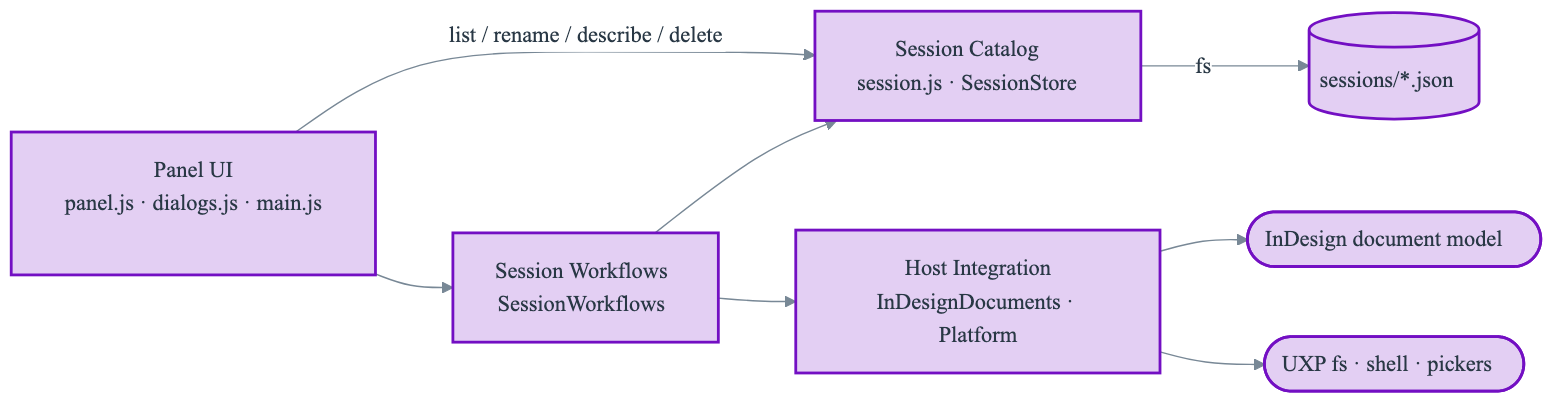
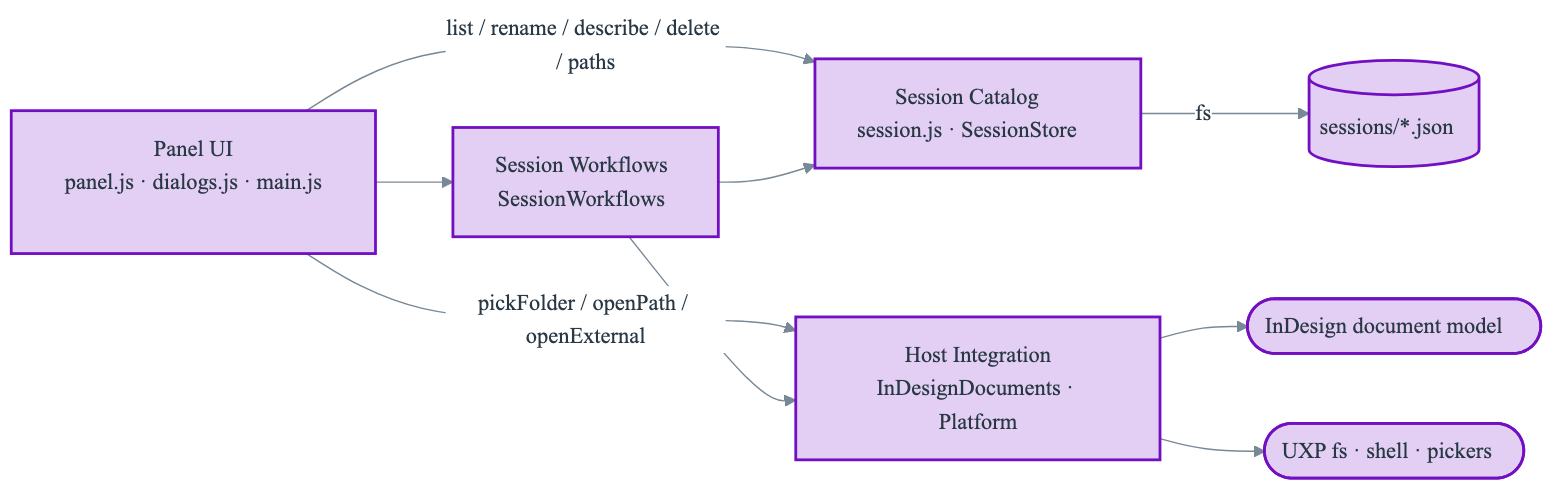
docs: resolve ADR-001 review findings on UI platform calls and fs contract

diff --git a/docs/adrs/ADR-001-indesign-uxp-sessions-plugin/ADR-001-indesign-uxp-sessions-plugin-0.0.1.md b/docs/adrs/ADR-001-indesign-uxp-sessions-plugin/ADR-001-indesign-uxp-sessions-plugin-0.0.1.md
@@ -74,28 +74,29 @@ One file per session, named `<id>.json`, written with `JSON.stringify` (2-space 
 }
 ```
 
-- `id` is immutable and derived from the creation time plus a short random suffix; it is the filename. Renaming a session changes `name` only, so no filename sanitization or file renames are needed and rename cannot collide.
+- `id` is immutable and derived from the UTC creation time (`YYYYMMDD-HHMMSS`) plus a four-character random suffix; it is the filename. Renaming a session changes `name` only, so no filename sanitization or file renames are needed and rename cannot collide.
 - `name` defaults to the local creation date and time and is user-editable. `description` is optional and shown as the row tooltip.
 - `files` are native absolute paths in the order InDesign lists the documents.
 - The list is sorted newest-first by `createdAt`, independent of `name`.
 - Reading validates the shape (`schemaVersion` known, `id`/`name`/`createdAt` strings, `files` an array of strings). Invalid or unreadable files are excluded from the list and reported once in the panel's message area; they are never modified or deleted automatically.
-- Writes go to `<id>.json.tmp` and are then renamed over `<id>.json`, so an interrupted write cannot leave a truncated session.
+- Writes go to `<id>.json.tmp` and are then renamed over `<id>.json`, so an interrupted write cannot leave a truncated session. Listing reads only `*.json`, so a leftover `.tmp` is ignored, and the next write of the same id overwrites it.
+- `SessionStore` depends on this subset of the UXP `fs` module, injected so tests can supply a Node-backed fake with the same subset: `mkdir(path, { recursive: true })`, `readdir(path)`, `readFile(path, { encoding: "utf-8" })`, `writeFile(path, data, { encoding: "utf-8" })`, `rename(from, to)` (replacing an existing target), `unlink(path)`. No other `fs` call is used by the catalog.
 
 ### 4. Components
 
 | Component | Responsibility | Public contract | Implementation artifacts |
 | --- | --- | --- | --- |
-| Session Catalog | Own the session record and its persistence: create, validate, serialize, list, read, update, delete. | `SessionStore` with `list()`, `get(id)`, `create({ name, description, files })`, `update(id, changes)`, `remove(id)`; `Session` helpers `createSession`, `parseSession`, `sortNewestFirst`. | `src/sessions/session.js` (pure), `src/sessions/SessionStore.js` (uses an injected `fs`-compatible module and directory path), `src/sessions/storageLocation.js` |
+| Session Catalog | Own the session record and its persistence: create, validate, serialize, list, read, update, delete. | `SessionStore` with `directory` (absolute sessions folder), `filePathFor(id)`, `list()` → `{ sessions, invalidFiles }`, `get(id)`, `create({ name, description, files })`, `update(id, changes)`, `remove(id)`; `Session` helpers `createSession`, `parseSession`, `sortNewestFirst`. | `src/sessions/session.js` (pure), `src/sessions/SessionStore.js` (uses an injected `fs`-compatible module and directory path), `src/sessions/storageLocation.js` |
 | Host Integration | Isolate every call into InDesign and UXP platform services. | `InDesignDocuments` with `listOpenDocuments()` → `{ path, name, saved }[]` and `openDocument(path)`; `Platform` with `pickFolder()`, `copyFile(src, dest)`, `fileExists(path)`, `openPath(path)`, `openExternal(url)`. | `src/host/InDesignDocuments.js`, `src/host/Platform.js` |
 | Session Workflows | Implement the user-level use cases by coordinating the catalog and host, and return result summaries the UI can display. | `SessionWorkflows` with `inspectOpenDocuments()` → `{ savablePaths, untitledCount }`, `saveOpenDocuments({ name, description })`, `openSession(id)`, `copySessionDocuments(id, folder)`, `collectOpenDocuments(folder)`; pure helper `uniqueTargetName(fileName, isTaken)`. | `src/workflows/SessionWorkflows.js`, `src/workflows/fileNames.js` |
-| Panel UI | Render the session list and dialogs, map user gestures and flyout commands to workflows, show results. | `index.html` panel and `entrypoints.setup` registration; no contract consumed by other components. | `index.html`, `src/ui/panel.js`, `src/ui/dialogs.js`, `src/ui/styles.css`, `src/main.js` |
+| Panel UI | Render the session list and dialogs, map user gestures and flyout commands to workflows, collect user choices (folder picks, confirmations), and show results. | `index.html` panel and `entrypoints.setup` registration; no contract consumed by other components. | `index.html`, `src/ui/panel.js`, `src/ui/dialogs.js`, `src/ui/styles.css`, `src/main.js` |
 
-Dependency direction: Panel UI → Session Workflows → (Session Catalog, Host Integration). The Session Catalog and Session Workflows do not import `indesign` or `uxp`; their collaborators are injected, which is what makes them testable outside InDesign.
+Dependency direction: Panel UI → Session Workflows → (Session Catalog, Host Integration). The Panel UI also calls two components directly, limited to these operations: `SessionStore` for `list`, `update` (rename, describe), `remove`, `directory`, and `filePathFor`; and `Platform` for `pickFolder`, `openPath`, and `openExternal`. Workflows receive already-chosen inputs (for example the target folder) and never show UI. The Session Catalog and Session Workflows do not import `indesign` or `uxp`; their collaborators are injected, which is what makes them testable outside InDesign.
 
 <!-- diagram: component-overview | Components and dependencies (source: diagrams/component-overview.mmd) -->
 ![Components and dependencies](diagrams/component-overview.png)
 
-Simple record edits (rename, edit description, delete, list) go from the UI straight to the `SessionStore`; routing them through the workflows would add a pass-through layer with no behavior.
+Simple record edits and user-interaction platform calls go from the UI straight to their owning component; routing them through the workflows would add a pass-through layer with no behavior. The workflows own only operations with rules: which documents are savable, how a session is opened file by file, and how copies avoid overwriting.
 
 <!-- diagram: save-open-flow | Save and open flows (source: diagrams/save-open-flow.mmd) -->
 ![Save and open flows](diagrams/save-open-flow.png)
@@ -111,11 +112,11 @@ UXP has no right-click menu, so the CEP context-menu actions become an action ba
 | Open via button and double-click | Port | "Open" button (enabled when a row is selected) and row double-click. |
 | Continue past missing/failing files | Port | Each file is attempted independently; a summary reports opened, already open, missing, and failed counts. |
 | Open Session File | Port | Action bar "Show File" opens the session JSON with `shell.openPath`. |
-| Copy Session Docs | Port | Action bar "Copy Files…" picks a folder and copies each existing file; name collisions get a numeric suffix (see edge cases). |
+| Copy Session Docs | Port | Action bar "Copy Files…" picks a folder and copies each existing file; name collisions get a numeric suffix (see edge cases). Afterwards a confirm dialog reports the counts and offers to show the folder (`openPath`), matching CEP's "Open enclosing folder?" prompt. |
 | Rename Session | Adapt | Action bar "Rename…" edits `name` only; the file is not renamed. |
 | Add Description | Port | Action bar "Describe…" edits `description`. |
 | Delete Session with confirm | Port | Action bar "Delete…" shows a confirm dialog, then removes the JSON file. |
-| Collect Open Files | Port | Flyout "Collect Open Documents…". Same copy rules as Copy Files. |
+| Collect Open Files | Port | Flyout "Collect Open Documents…". Same copy rules and same post-copy "show folder" prompt as Copy Files (CEP opened the folder unconditionally; the prompt avoids an unasked-for consent dialog). |
 | Documentation link | Port | Flyout "Documentation" opens the repository README URL with `shell.openExternal`. |
 | — (new) | Add | Flyout "Show Sessions Folder" opens the storage folder; this replaces the need for a log file to locate data. |
 | Open Log File | Drop | UXP plugins log to the UXP Developer Tool console; there is no file logger to open. |
@@ -133,7 +134,7 @@ UXP has no right-click menu, so the CEP context-menu actions become an action ba
 | Untitled (never-saved) documents | Excluded; the result message states how many were skipped. If every open document is untitled, nothing is saved and the message says so. |
 | Documents with unsaved changes | The on-disk path is saved; the dialog notes that unsaved changes are not part of a session. |
 | Converted documents (opened from an older InDesign version, not yet saved in the new format) | Treated like untitled documents when InDesign reports no file for them; otherwise saved by path. Confirmed in the manual verification checklist. |
-| A session file already open in InDesign | Skipped and counted as "already open" (compared by normalized absolute path). |
+| A session file already open in InDesign | Skipped and counted as "already open" (paths compared after `path.normalize`-style cleanup of `.`/`..`/trailing separators, case-insensitively on macOS and Windows whose default volumes are case-insensitive). |
 | A file that no longer exists | Skipped and counted as "missing"; listed by name in the summary. |
 | A file that exists but fails to open | Error caught; counted as "failed"; remaining files still open. |
 | Missing-font / missing-link dialogs during open | InDesign's interaction level is not changed, matching CEP: the user sees and resolves those dialogs. |

diff --git a/docs/adrs/imp/ADR-001-indesign-uxp-sessions-plugin-implementation-plan.md b/docs/adrs/imp/ADR-001-indesign-uxp-sessions-plugin-implementation-plan.md
@@ -41,6 +41,7 @@ com.sessions-uxp/
   test/
     __mocks__/indesign.js     # minimal app.documents / app.open fake
     __mocks__/uxp.js          # localFileSystem / shell fakes
+    support/nodeFs.js         # Node fs/promises restricted to the ADR-001 §3 fs subset
     sessions/*.test.js
     workflows/*.test.js
     host/*.test.js
@@ -54,7 +55,7 @@ com.sessions-uxp/
 ## Implementation order (commit checklist)
 
 - [ ] `chore:` tooling — `package.json` (jest, eslint, scripts `test`, `lint`), `VERSION` 0.1.0, Jest `moduleNameMapper` for `indesign` and `uxp`, ESLint flat config.
-- [ ] `feat:` Session Catalog — `session.js`, `storageLocation.js`, `SessionStore.js` with tests (Node `fs/promises` against a temp directory).
+- [ ] `feat:` Session Catalog — `session.js`, `storageLocation.js`, `SessionStore.js` with tests. Tests inject `test/support/nodeFs.js`, which wraps Node `fs/promises` and exposes only the `fs` subset listed in ADR-001 §3, against a per-test temp directory.
 - [ ] `feat:` Host Integration — `InDesignDocuments.js`, `Platform.js` with tests against the mocks.
 - [ ] `feat:` Session Workflows — `SessionWorkflows.js`, `fileNames.js` with tests using in-memory fakes of the catalog and host.
 - [ ] `feat:` Panel UI and manifest — `manifest.json`, `index.html`, `src/ui/*`, `src/main.js`, icons; manifest test.
@@ -77,10 +78,12 @@ Manual (`docs/MANUAL-VERIFICATION.md`, run by the user in InDesign through the U
 3. Already-open documents are skipped rather than reopened.
 4. Missing-font / missing-link dialogs appear and opening continues afterward.
 5. `shell.openPath` on the sessions folder and a session `.json` (consent prompt, `launchProcess.extensions` format).
-6. Theme follows InDesign light/dark.
-7. Smoke test: open three documents (one untitled) → Save → close all → Open → three-minus-one reopen, summary correct; Rename, Describe, Copy Files, Collect, Delete.
+6. UXP `fs.rename` replaces an existing `<id>.json` (exercised by Rename and Describe on an existing session).
+7. Theme follows InDesign light/dark.
+8. Smoke test: open three documents (one untitled) → Save → close all → Open → three-minus-one reopen, summary correct; Rename, Describe, Copy Files (with a name collision), Collect, Delete.
+9. Windows (when a Windows machine is available): sessions folder resolves under `%APPDATA%`, and the smoke test passes.
 
-"Done" for the implementation PR means the automated suite and lint pass and the manual checklist exists; in-host results are reported by the user and any defect found is fixed in a follow-up PR.
+"Done" for the implementation PR means the automated suite and lint pass, Archie and Koala have signed off, and the manual checklist exists. The PR is then merged; in-host results are reported by the user, and any defect found is fixed in a follow-up PR. Host behavior in items 1–2 (document paths and opening) is the main residual risk of merging before an in-host run.
 
 ## Versioning
 
